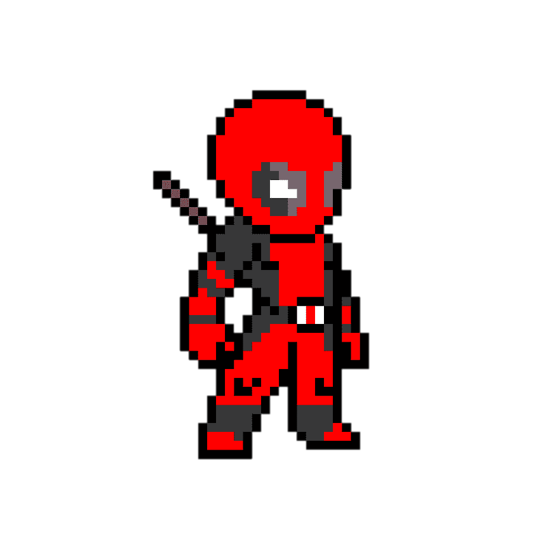
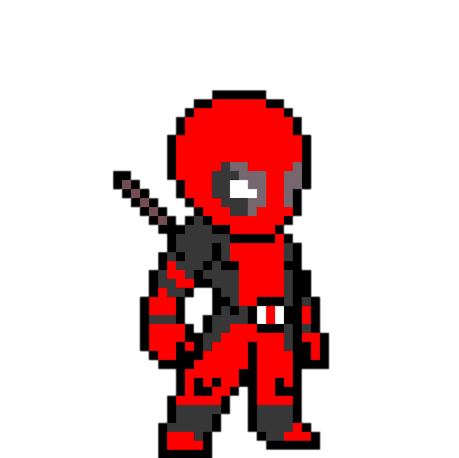
Ajuste das imagens
Mudei o tamanho das imagens e adicionei a mysterious box.

Changed region(s): [[0.244, 0.1528, 0.732, 1.0]]

diff --git a/players.py b/players.py
@@ -12,13 +12,13 @@ Quinto parametro ajusta a altura do chão para cada personagem
 
 def load_players(assets):
     players = {}
-    players[KRATOS] = [assets[KRATOS], 130,115, False, 21]
+    players[KRATOS] = [assets[KRATOS], 130,115, False, 0]
     players[DINO] = [assets[DINO], 250, 100, True, 0]
-    players[SONIC] = [assets[SONIC], 125, 80, False, 5]
+    players[SONIC] = [assets[SONIC], 125, 80, False, 0]
     players[MARIO] = [assets[MARIO], 55, 55, False, 0]
     players[YOSHI] = [assets[YOSHI], 100, 60, False, 3]
-    players[DEADPOOL] = [assets[DEADPOOL], 110, 110, False, 20]
-    players[CORONITA] = [assets[CORONITA], 100, 120, False, 12]
+    players[DEADPOOL] = [assets[DEADPOOL], 110, 110, False, 0]
+    players[CORONITA] = [assets[CORONITA], 100, 120, False, 0]
     players[ASH] = [assets[ASH], 50, 70, False, 1]
-    players[FLAPPY] = [assets[FLAPPY], 110, 80, False, 20]
+    players[FLAPPY] = [assets[FLAPPY], 110, 80, False, 0]
     return players

diff --git a/functions.py b/functions.py
@@ -212,7 +212,7 @@ def game_over_screen(screen, assets):
 
         # Escreve nossos nomes
         font = assets[SCORE_FONT]    
-        text = font.render('By: Luca, Thiago and Victor', True, RED) 
+        text = font.render('By: Luca, Thiago and Vitor', True, RED) 
         screen.blit(text, [WIDTH//8 + 20, HEIGHT//4 + 100])
 
         # Escreve a opção de  play again

diff --git a/main.py b/main.py
@@ -33,7 +33,6 @@ try:
                 if game_over_screen(screen, assets) == False:
                     player_type = player_screen(screen, assets)
                     game_screen(screen, assets, player_type)
-
 finally:
     pygame.quit()
 
